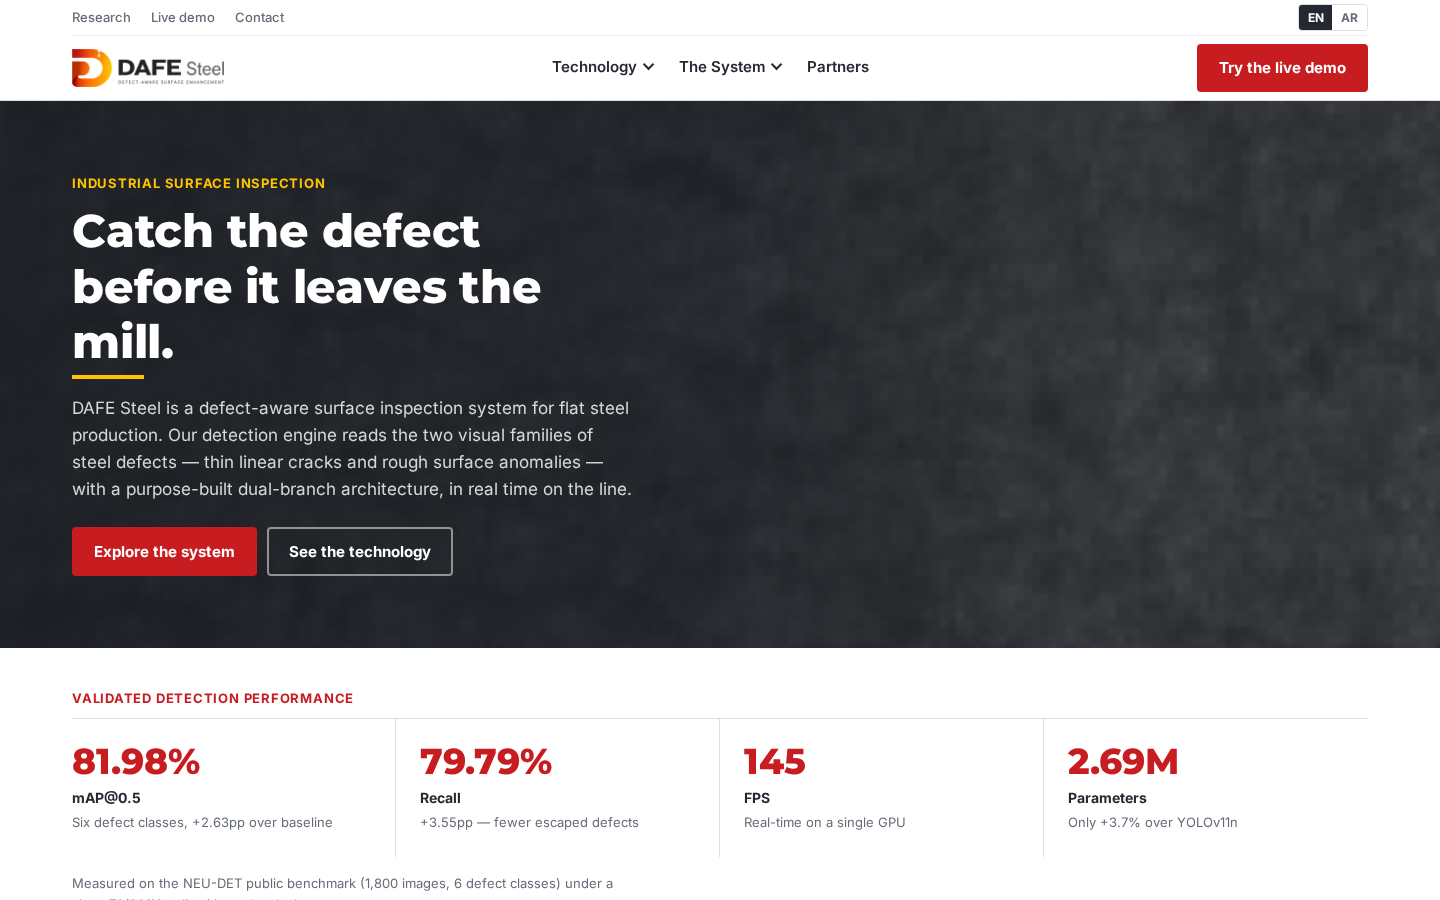
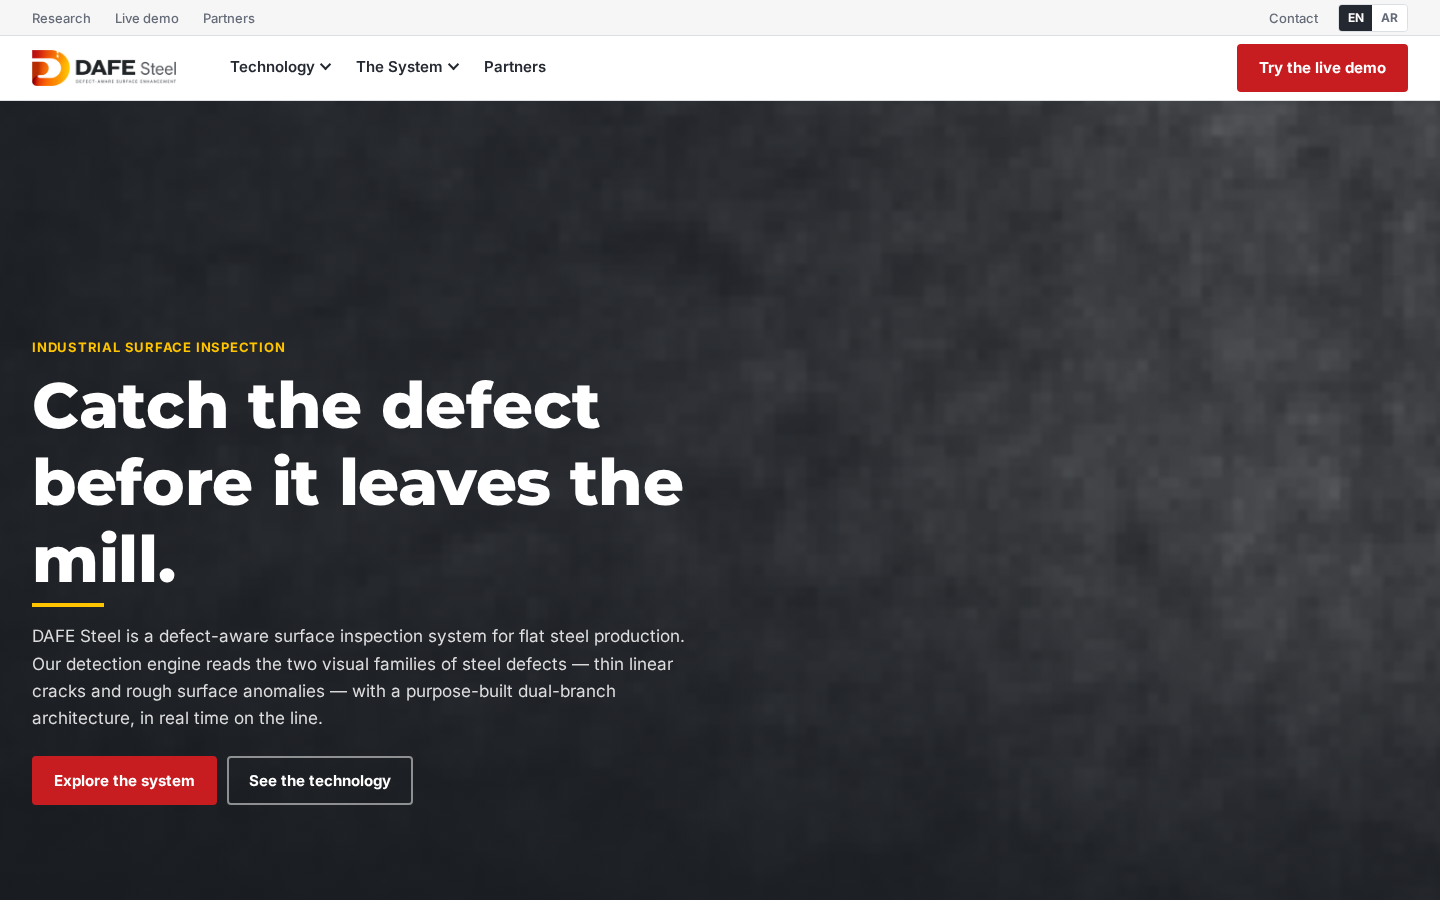
Document the hero video contract
Adds public/media/README.md specifying the encode settings, loop and
composition constraints for the background clip, so whoever produces it
knows the stage applies grayscale and a directional scrim and that the
text block occupies the bottom corner on both LTR and RTL.

diff --git a/public/media/README.md b/public/media/README.md
@@ -1,0 +1,54 @@
+# Hero media
+
+The landing stage (`src/components/StageHero.vue`) accepts either a still or a
+video. Drop the clip here and pass it to the component:
+
+```vue
+<StageHero
+  full
+  :video="'/media/hero.mp4'"
+  :image="FIGURES.hero"   <!-- becomes the poster frame -->
+  ...
+/>
+```
+
+## Video specification
+
+| Property | Value | Why |
+|---|---|---|
+| Container / codec | MP4 / H.264 (High, yuv420p) | Only combination that autoplays everywhere |
+| Resolution | 1920×1080 | Stage is cropped with `object-fit: cover` |
+| Duration | 8–20 s, **seamless loop** | Loops forever; a visible cut is obvious |
+| Frame rate | 25 or 30 fps | Higher is wasted under a scrim |
+| Audio | **None** — strip the track | Muted autoplay; an audio track is dead weight |
+| File size | Target < 8 MB, hard ceiling 12 MB | It blocks first paint of the landing page |
+| Bitrate | ~2–3 Mbps, or CRF 26–28 | Detail is lost under grayscale + scrim anyway |
+| `faststart` | Required | Lets playback begin before full download |
+
+Encode example:
+
+```sh
+ffmpeg -i source.mov -an \
+  -vf "scale=1920:1080:force_original_aspect_ratio=increase,crop=1920:1080,fps=30" \
+  -c:v libx264 -profile:v high -pix_fmt yuv420p -crf 27 \
+  -movflags +faststart hero.mp4
+```
+
+## Composition constraints
+
+The stage applies `grayscale(1)`, a 4% scale-up, and a directional dark scrim
+(~90% opacity on the text side, ~66% on the far side). Consequences:
+
+- **Do not colour-grade.** Colour is discarded. Compose for *tonal* contrast.
+- **Keep the text side quiet.** Headline and buttons sit bottom-left in LTR and
+  bottom-right in RTL, so avoid busy detail in the lower corners on both sides.
+- **Slow motion only.** A locked-off or very slow move reads as confident; fast
+  pans fight the text and expose compression.
+- **No on-screen text, signage or logos.** They will be unreadable and dated.
+- **No visible faces**, and any worker must be in correct PPE — a mill audience
+  notices missing helmets and glasses immediately.
+
+## Fallback
+
+If no video is supplied the component renders `FIGURES.hero`, currently a real
+hot-rolled surface cropped from the NEU-DET benchmark. Nothing breaks.
